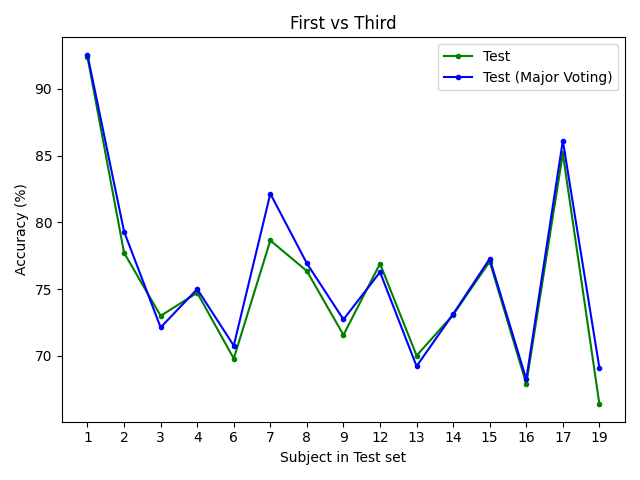
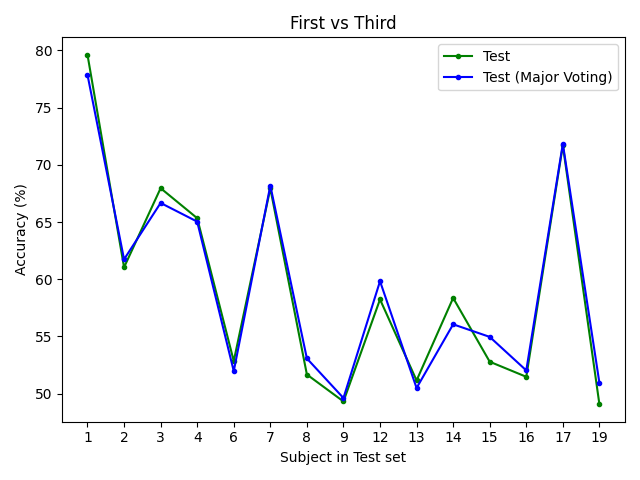
Data without preprocessing is used

diff --git a/mat2h5Conversion.py b/mat2h5Conversion.py
@@ -28,8 +28,8 @@ else:
 print(f'Test Subjects:  {config.test_subjects}')
 print(f'Train Subjects: {config.train_subjects}')
 
-path = config.file_path + "SF_"+config.data_path+"_MLdata.mat"
-#path = config.file_path + "SF_"+config.data_path+"_data_nopre.mat"
+#path = config.file_path + "SF_"+config.data_path+"_MLdata.mat"
+path = config.file_path + "SF_"+config.data_path+"_data_nopre.mat"
 
 def find_subjects_list(data_type):
     if data_type == 'train':

diff --git a/plot_test_acc.py b/plot_test_acc.py
@@ -8,7 +8,7 @@ import numpy as np
 from sklearn import metrics
 
 config = Config()
-#config.all_subjects = np.array([1,2,3,4,6,7,8,9,12,13,14,15])
+#config.all_subjects = np.array([1,2,3,4,6])
 color_codes = ['-g.', '-b.', '-r.']
 if config.apply_valid_set:
    datasets = ['train','test','valid']
